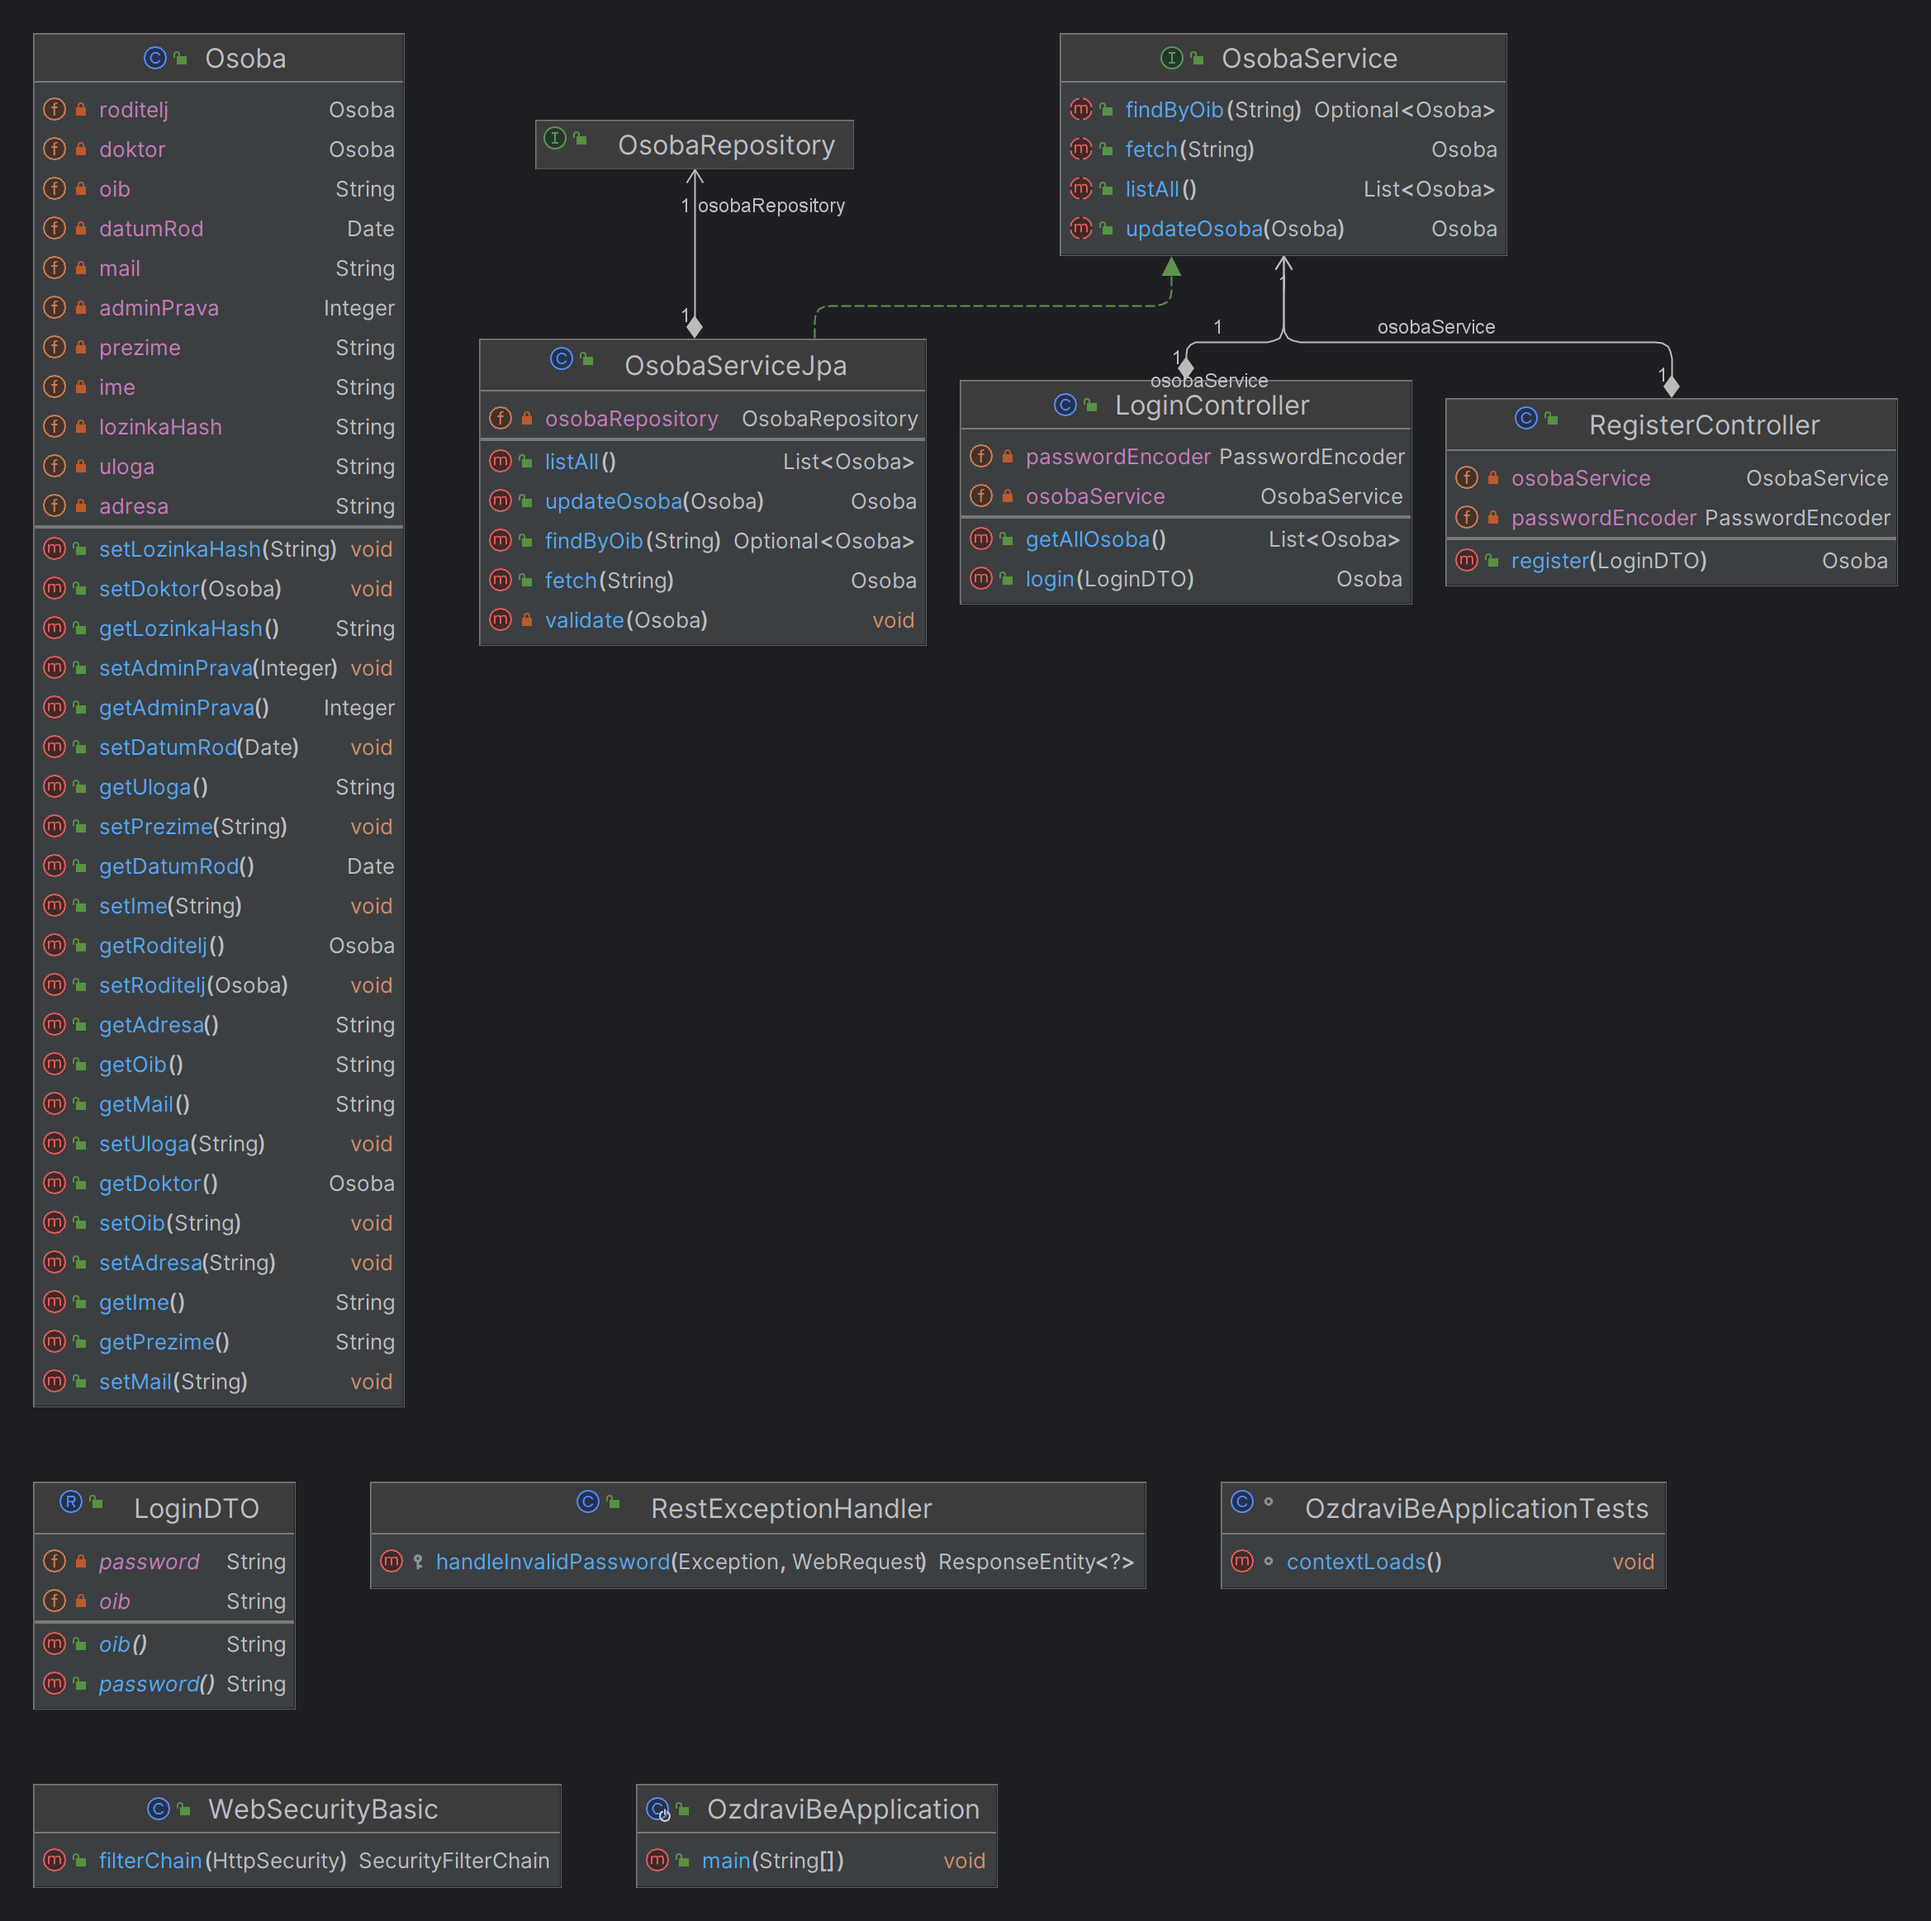
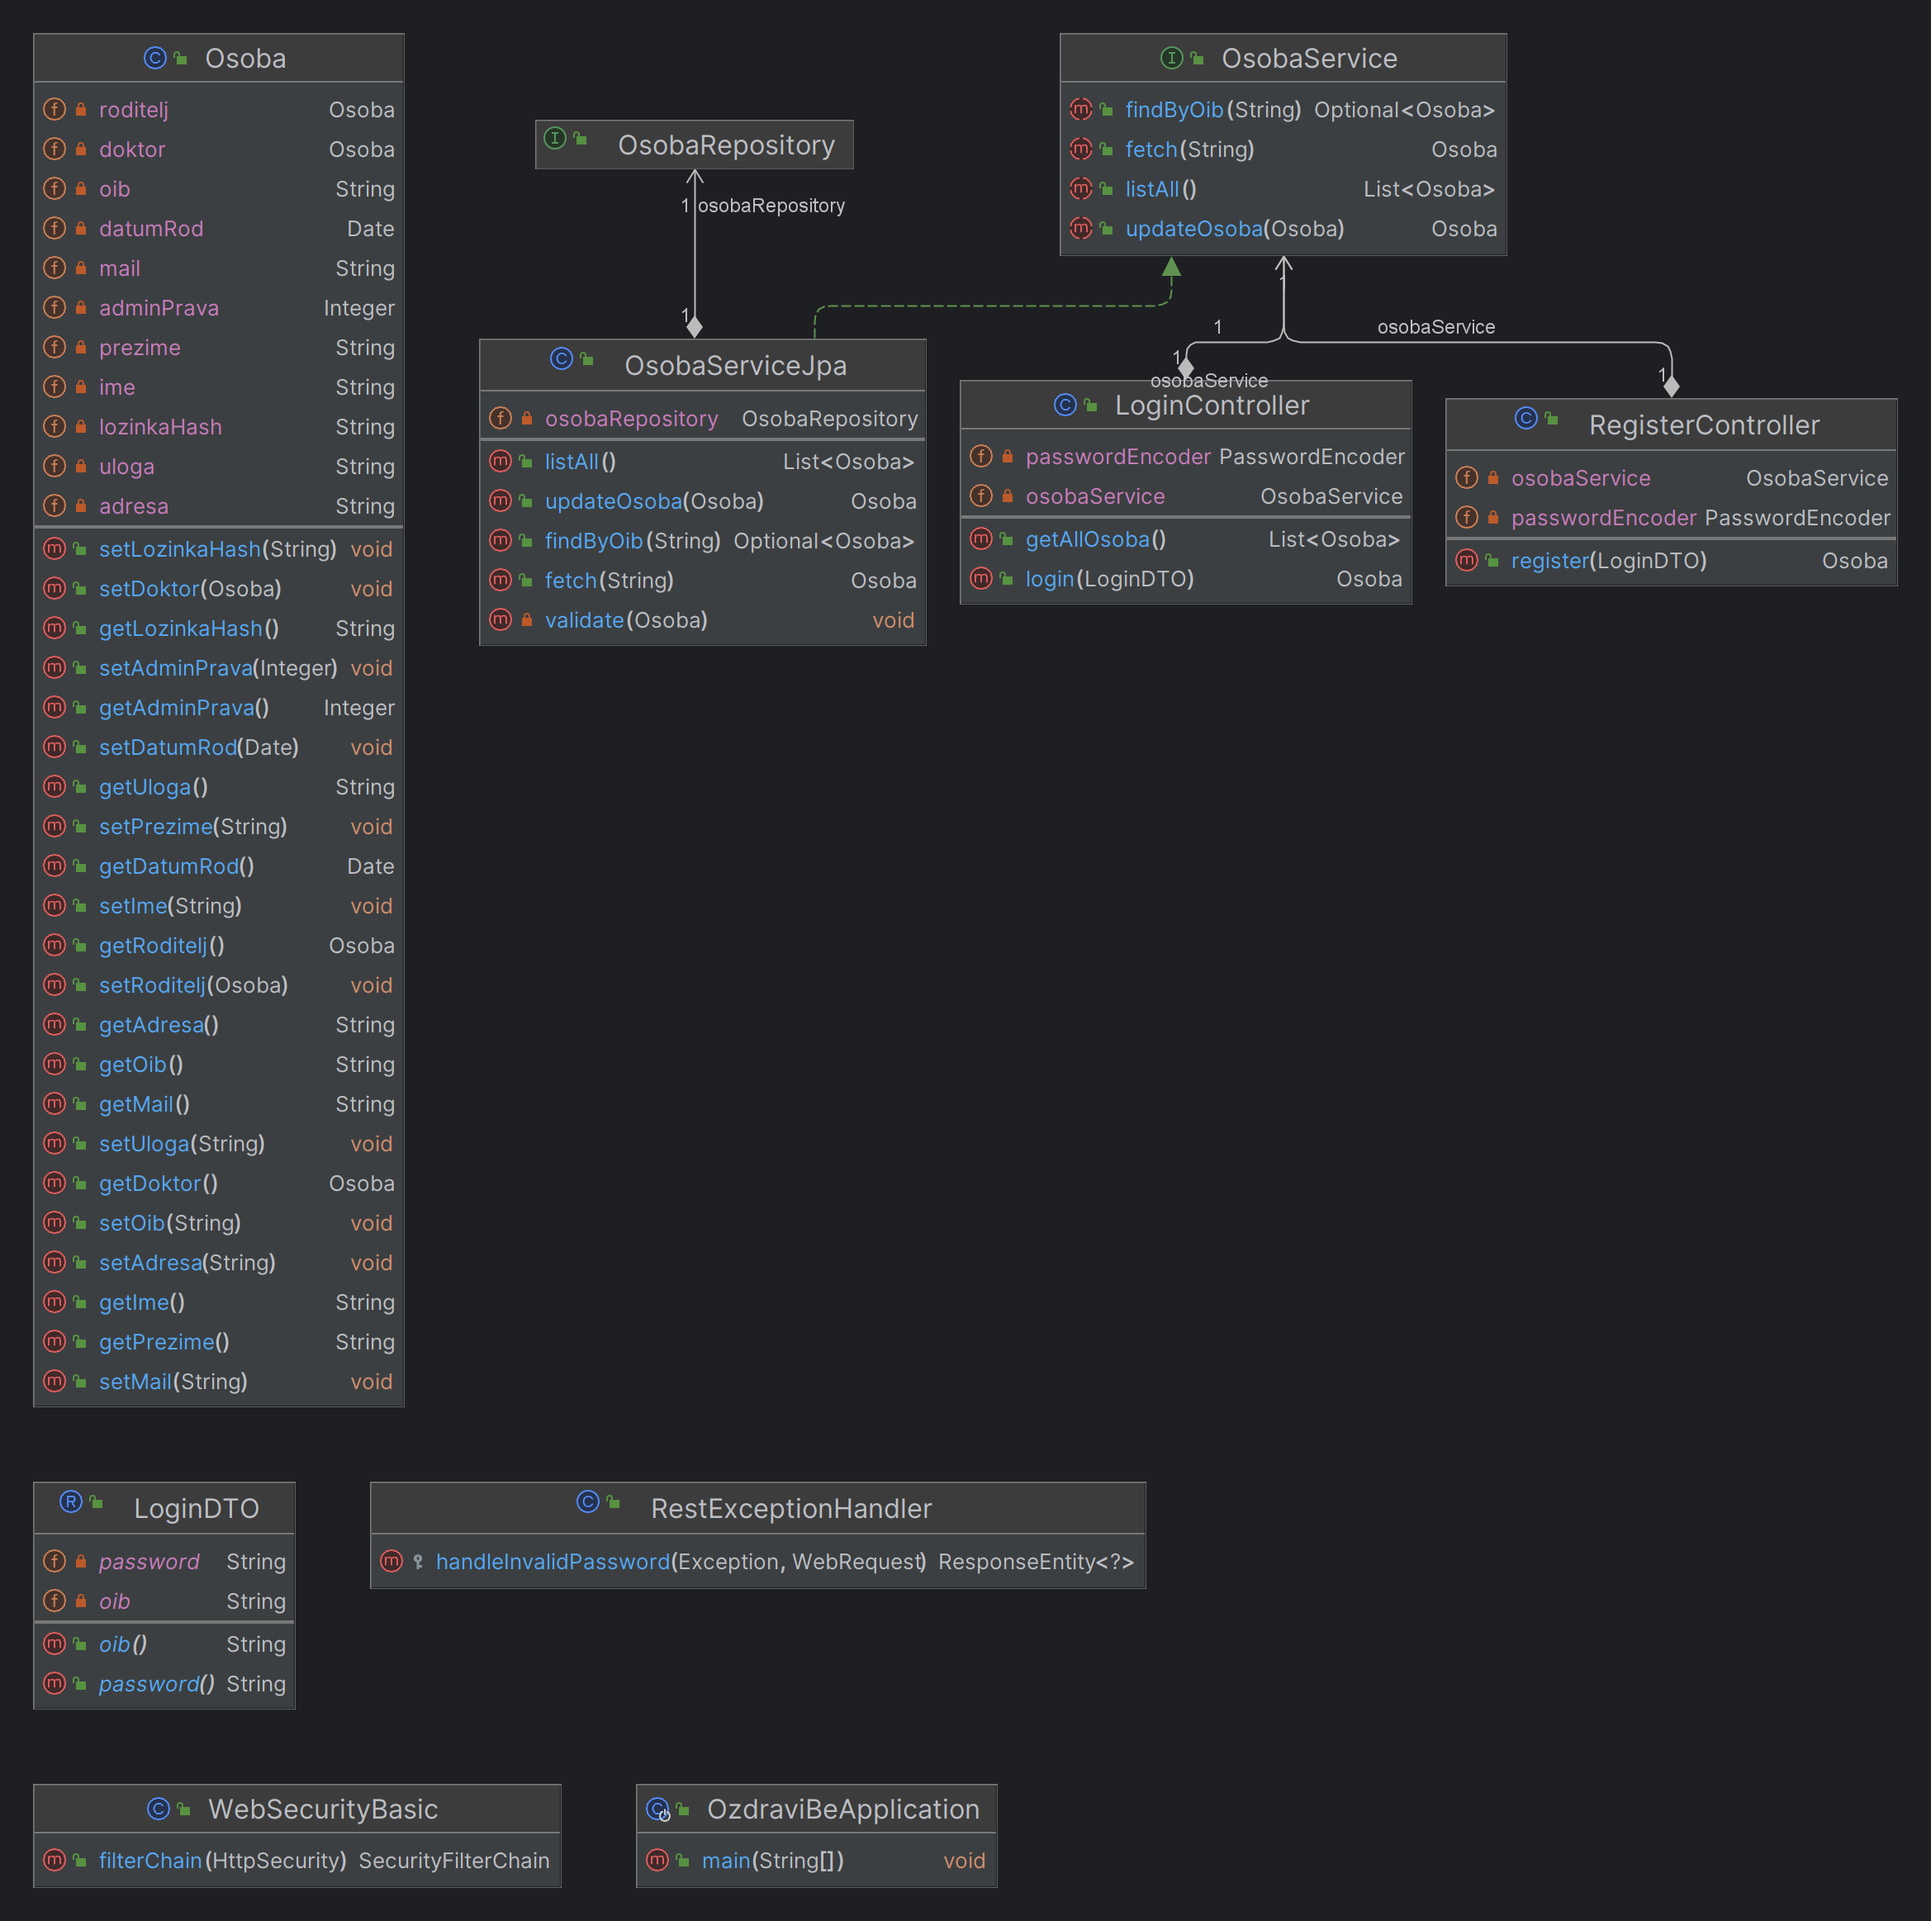
Updated chapter 4, added class diagram

Changed region(s): [[0.6245, 0.7739, 0.8743, 0.8358]]

diff --git a/dokumentacija/Arhitektura.tex b/dokumentacija/Arhitektura.tex
@@ -161,12 +161,63 @@
 			
 		\section{Dijagram razreda}
 		
-			\textit{Potrebno je priložiti dijagram razreda s pripadajućim opisom. Zbog preglednosti je moguće dijagram razlomiti na više njih, ali moraju biti grupirani prema sličnim razinama apstrakcije i srodnim funkcionalnostima.}\\
+			\begin{figure}[H]
+				\includegraphics[width=\textwidth]{dijagrami/classDiagram1.png} %veličina u odnosu na širinu linije
+				\caption{Dijagram razreda}
+				\label{fig:promjene10} %label mora biti drugaciji za svaku sliku
+			\end{figure}
+			\
+
+			\textit{Razred }\textbf{Osoba}
+			 predstavlja entitet Osoba baze podataka. 
+			Sadrži sve njegove atribute odgovarajućih tipova s pripadnim integritetskim ograničenjima, kao i gettere i settere za sve njih kako bi im Springov ORM mogao pristupiti.
+
+			\textit{Sučelje }\textbf{OsobaRepository}
+			 daje sučelje za pristup entitetu Osoba u bazi podataka preko JPA.
+
+			\textit{Sučelje }\textbf{OsobaService}
+			 opisuje operacije kojima se pristupa entitetu Osoba, 
+			ne oslanjajući se na konkretnu implementaciju (tj. na Repository),
+			što je u skladu sa objektnom paradigmom i omogućuje primjenu dependency injectiona.
 			
-			\textbf{\textit{dio 1. revizije}}\\
-			
-			\textit{Prilikom prve predaje projekta, potrebno je priložiti potpuno razrađen dijagram razreda vezan uz \textbf{generičku funkcionalnost} sustava. Ostale funkcionalnosti trebaju biti idejno razrađene u dijagramu sa sljedećim komponentama: nazivi razreda, nazivi metoda i vrste pristupa metodama (npr. javni, zaštićeni), nazivi atributa razreda, veze i odnosi između razreda.}\\
-			
+			\textit{Razred }\textbf{OsobaServiceJpa}
+			 predstavlja konkretnu implementaciju sučelja OsobaService koja entitetu Osoba
+			pristupa preko repozitorija (tipa OsobaRepository) na kojeg pamti referencu.
+
+			\textit{Razred }\textbf{LoginController}
+			 služi za obradu zahtjeva za prijavu (login).
+			Pamti referencu na apstraktni OsobaService kako bi mogao raditi operacije nad bazom Osoba.
+			Također mora imati referencu na objekt tipa PasswordEncoder čiji je zadatak primijeniti hash algoritam
+			na dobivenu lozinku kako bi se mogla usporediti sa hashem koji je spremljen u bazi. Članske funkcije 
+			ove klase izvršavaju se prilikom primanja HTTP zahtjeva, što vrijedi općenito za Controller klase
+			(tj. njihove objekte) u Springu. Članska funkcija login će na POST zahtjev s odgovarajućim podatcima
+			obaviti prijavu korisnika. Članska funkcija getAllOsoba postoji isključivo za svrhe testiranja i ona će na GET zahtjev vratiti popis svih osoba
+			u JSON formatu. 
+
+			\textit{Razred }\textbf{RegisterController}
+			 služi za obradu zahtjeva za registraciju (register).
+			Isto kao i razred LoginController, drži referencu na OsobaService radi pristupa bazi i na PasswordEncoder
+			kako bi dobivene lozinke mogao hashirati prije spremanja u bazu. Članska funkcija register će na POST
+			zahtjev s odgovarajućim podatcima pokušati izvršiti registraciju novog korisnika. 
+
+			\textit{Zapis }\textbf{LoginDTO}
+			 je pomoćni Data Transfer Object zapis, koji, kao što mu ime nalaže, služi za pakiranje
+			dobivenih podataka pri prijavi ili registraciji u Java objekt. 
+
+			\textit{Razred }\textbf{RestExceptionHandler}
+			 služi za hvatanje iznimki koje mogu biti bačene prilikom obrade HTTP zahtjeva u Controllerima i ovisno o iznimki
+			vraća pravilan HTTP odgovor (npr. odgovor ne smije biti 500 ako se dogodi iznimka pri obradi zahtjeva jer je korisnika
+			unio nepravilne podatke). Članska funkcija handleInvalidPassword će uhvatiti iznimke uzrokovane
+			pogrešnim podatcima za prijavu ili registraciju i vratiti HTTP odgovor sa smislenom porukom.
+
+			\textit{Razred }\textbf{WebSecurityBasic}
+			 služi za konfiguriranje sigurnosnih postavki. U ovom trenutku su one najosnovnije.
+
+			\textit{Razred }\textbf{OzdraviBeApplication}
+			 je automatski generiran od strane Springa i sadrži ulaznu točku za izvršavanje programa.
+
+			\
+
 			\textbf{\textit{dio 2. revizije}}\\			
 			
 			\textit{Prilikom druge predaje projekta dijagram razreda i opisi moraju odgovarati stvarnom stanju implementacije}
